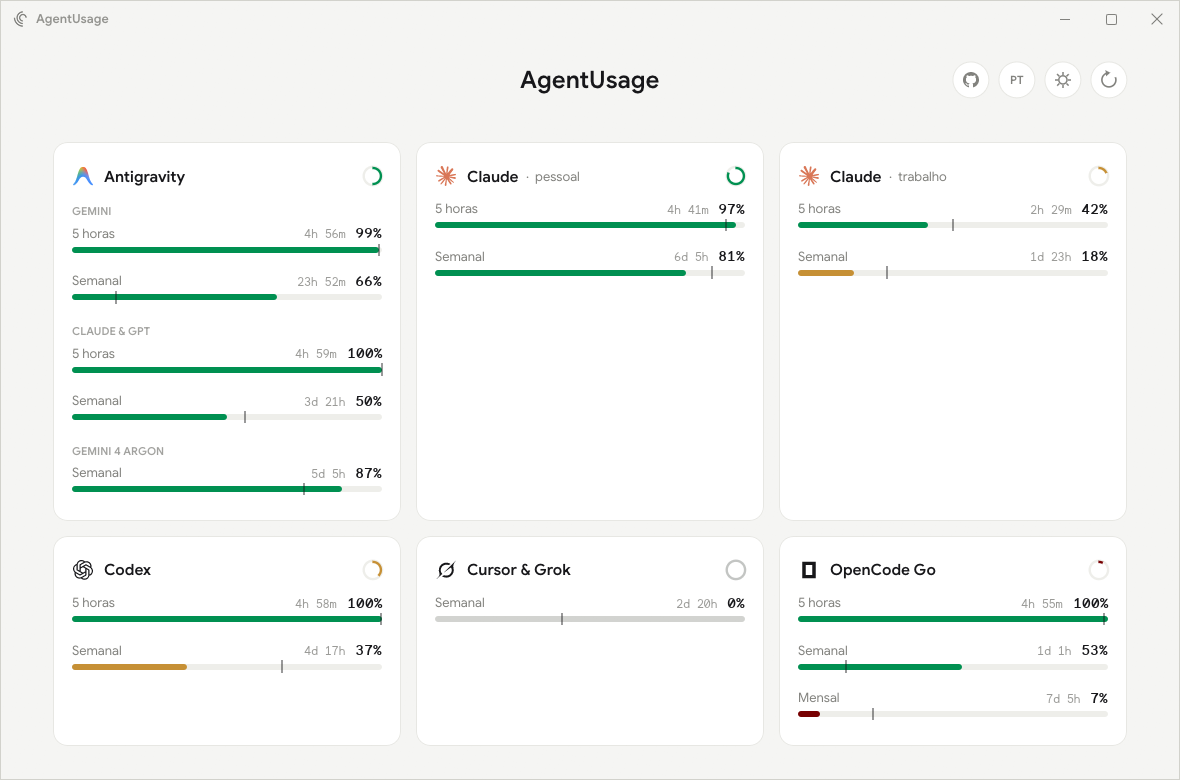
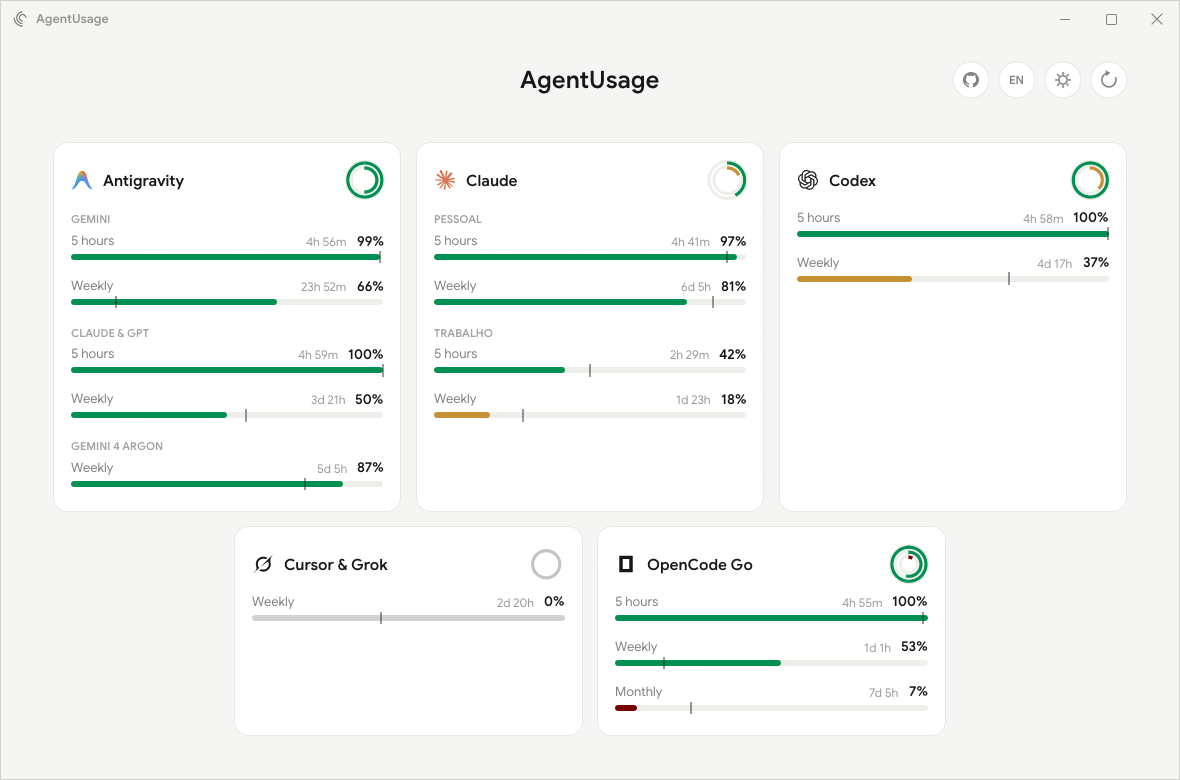
One Claude card for all accounts, concentric hour/week/month rings, Google Sans only

diff --git a/src/ui.rs b/src/ui.rs
@@ -6,7 +6,7 @@ use crate::i18n::Lang;
 use crate::icons;
 use crate::model::{Account, Reading, Status, Window};
 use crate::prefs::ThemeMode;
-use crate::theme::{MONO, MONO_SEMIBOLD, Palette, SEMIBOLD};
+use crate::theme::{Palette, SEMIBOLD};
 use chrono::{DateTime, Local, Utc};
 use eframe::egui::{
     self, Align2, Color32, CornerRadius, FontFamily, FontId, Painter, Pos2, Rect, Response, Sense,
@@ -56,7 +56,7 @@ impl Metrics {
     fn at(k: f32) -> Self {
         Self {
             pad: 20.0 * k.max(0.8),
-            head: 30.0,
+            head: 40.0,
             row: 50.0 * k,
             group: 26.0 * k,
             gap: 16.0 * k.max(0.75),
@@ -68,6 +68,9 @@ const BAR_H: f32 = 6.0;
 /// Densest layout: rows stay readable (label line plus bar) down to this scale.
 const MIN_K: f32 = 0.6;
 const BTN_R: f32 = 18.0;
+/// Concentric status rings: radii (outer hours, middle week, inner month) and stroke width.
+const RING_R: [f32; 3] = [17.0, 12.0, 7.0];
+const RING_W: f32 = 3.2;
 /// Narrowest card that still reads well, used before falling back to scrolling.
 const MIN_CARD_W: f32 = 220.0;
 
@@ -126,7 +129,8 @@ impl Dashboard {
         let lang = f.lang;
 
         let full = ui.max_rect();
-        let mut cards: Vec<&Account> = f.accounts.iter().collect();
+        let merged = crate::model::merge_claude(f.accounts);
+        let mut cards: Vec<&Account> = merged.iter().collect();
         cards.sort_by(|a, b| {
             a.title()
                 .to_lowercase()
@@ -450,41 +454,46 @@ impl Dashboard {
                 );
             }
             Reading::Ok(groups) => {
-                // Status ring: the tightest window.
-                if let Some(b) = acc.binding() {
-                    let st = b.status(f.now);
+                // Concentric rings, outer to inner: hours, week, month (the tightest window
+                // of each). Same place and size on every card; a ring shows only if it applies.
+                let rc = pos2(inner.right() - RING_R[0] - RING_W / 2.0, hy);
+                let mut tip = Vec::new();
+                for (i, w) in acc.by_period().into_iter().enumerate() {
+                    let Some(w) = w else { continue };
+                    let st = w.status(f.now);
                     let v = self.tweens.get(
-                        &format!("ring:{}", acc.key),
-                        b.remaining,
+                        &format!("ring:{}:{i}", acc.key),
+                        w.remaining,
                         0.0,
                         now,
                         0.3,
-                        0.05 + idx as f32 * 0.03,
+                        0.05 + idx as f32 * 0.03 + i as f32 * 0.04,
                     );
-                    let rc = pos2(inner.right() - 9.0, hy);
-                    let ring_track = if st == Status::Empty {
+                    let track = if st == Status::Empty {
                         lerp_color(pal.track, pal.empty, 0.45)
                     } else {
                         pal.track
                     };
-                    p.circle_stroke(rc, 8.0, Stroke::new(2.4, ring_track.gamma_multiply(a)));
+                    p.circle_stroke(rc, RING_R[i], Stroke::new(RING_W, track.gamma_multiply(a)));
                     arc(
                         &p,
                         rc,
-                        8.0,
+                        RING_R[i],
                         v,
-                        Stroke::new(2.4, pal.status(st).gamma_multiply(a)),
+                        Stroke::new(RING_W, pal.status(st).gamma_multiply(a)),
                     );
-                    let ring_rect = Rect::from_center_size(rc, vec2(24.0, 24.0));
+                    tip.push(format!("{} · {}%", lang.data(&w.label), pct(w.remaining)));
+                }
+                if !tip.is_empty() {
+                    let ring_rect = Rect::from_center_size(rc, Vec2::splat(RING_R[0] * 2.0 + 6.0));
                     ui.interact(
                         ring_rect,
                         ui.scope_id().with(("ring", &acc.key)),
                         Sense::hover(),
                     )
-                    .on_hover_text(format!(
-                        "{} · {}%",
-                        lang.data(&b.label),
-                        pct(b.remaining)
+                    .on_hover_text(tip.join(
+                        "
+",
                     ));
                 }
                 let mut y = body_top;
@@ -545,7 +554,7 @@ impl Dashboard {
         // Right side: countdown (muted), then the percentage.
         let pct_g = p.layout_no_wrap(
             format!("{}%", pct(v)),
-            FontId::new(13.5, FontFamily::Name(MONO_SEMIBOLD.into())),
+            FontId::new(13.5, FontFamily::Name(SEMIBOLD.into())),
             pal.text.gamma_multiply(a),
         );
         let pct_w = pct_g.size().x;
@@ -560,7 +569,7 @@ impl Dashboard {
                 pos2(row.right() - pct_w - 10.0, line_y + 0.5),
                 Align2::RIGHT_CENTER,
                 countdown(left, lang),
-                FontId::new(11.5, FontFamily::Name(MONO.into())),
+                FontId::proportional(12.0),
                 pal.muted.gamma_multiply(a * 0.8),
             );
         }

diff --git a/src/model.rs b/src/model.rs
@@ -139,12 +139,92 @@ impl Account {
         };
         groups.iter().flat_map(|g| g.windows.iter())
     }
+}
 
-    /// The window that will stop work first: lowest remaining.
-    pub fn binding(&self) -> Option<&Window> {
-        self.windows()
-            .min_by(|a, b| a.remaining.total_cmp(&b.remaining))
+/// How long a window lasts, for the concentric rings: outer, middle and inner.
+#[derive(Clone, Copy, Debug, PartialEq, Eq)]
+pub enum Period {
+    Hours,
+    Week,
+    Month,
+}
+
+impl Window {
+    pub fn period(&self) -> Period {
+        match self.length.map(|d| d.as_secs()) {
+            Some(s) if s <= 24 * 3600 => Period::Hours,
+            Some(s) if s <= 8 * 24 * 3600 => Period::Week,
+            _ => Period::Month,
+        }
     }
+}
+
+impl Account {
+    /// The tightest window of each period (hours, week, month), if the account has one.
+    pub fn by_period(&self) -> [Option<&Window>; 3] {
+        let mut out: [Option<&Window>; 3] = [None; 3];
+        for w in self.windows() {
+            let i = w.period() as usize;
+            if out[i].is_none_or(|b| w.remaining < b.remaining) {
+                out[i] = Some(w);
+            }
+        }
+        out
+    }
+}
+
+/// All Claude accounts as one card, one group per account (alphabetical). Folders signed in to
+/// the same account show once, with the most recent reading.
+pub fn merge_claude(accounts: &[Account]) -> Vec<Account> {
+    let (claude, mut out): (Vec<&Account>, Vec<&Account>) = accounts
+        .iter()
+        .partition(|a| a.provider == Provider::Claude);
+    let mut out: Vec<Account> = out.drain(..).cloned().collect();
+    if claude.is_empty() {
+        return out;
+    }
+    let mut ok: Vec<(String, &Account, &Vec<Group>)> = Vec::new();
+    for a in &claude {
+        if let Reading::Ok(groups) = &a.reading {
+            let name = a.account.clone().unwrap_or_default();
+            match ok.iter_mut().find(|(n, _, _)| *n == name) {
+                Some(slot) if slot.1.fetched_at < a.fetched_at => *slot = (name, a, groups),
+                Some(_) => {}
+                None => ok.push((name, a, groups)),
+            }
+        }
+    }
+    ok.sort_by_key(|x| x.0.to_lowercase());
+    let reading = if !ok.is_empty() {
+        let single = ok.len() == 1;
+        Reading::Ok(
+            ok.iter()
+                .map(|(name, _, groups)| Group {
+                    name: if single { String::new() } else { name.clone() },
+                    windows: groups.iter().flat_map(|g| g.windows.clone()).collect(),
+                })
+                .collect(),
+        )
+    } else if claude.iter().any(|a| matches!(a.reading, Reading::Loading)) {
+        Reading::Loading
+    } else {
+        claude
+            .iter()
+            .find_map(|a| match &a.reading {
+                Reading::Unavailable(r) => Some(Reading::Unavailable(r.clone())),
+                _ => None,
+            })
+            .unwrap_or(Reading::Loading)
+    };
+    out.push(Account {
+        key: "claude".into(),
+        provider: Provider::Claude,
+        title: None,
+        account: None,
+        reading,
+        fetched_at: ok.iter().filter_map(|(_, a, _)| a.fetched_at).max(),
+    });
+    out
 }
 
 pub fn email_local_part(email: &str) -> String {
@@ -179,6 +259,41 @@ mod tests {
 #[cfg(test)]
 mod limit_tests {
     use super::*;
+
+    fn claude(key: &str, name: &str, rem: f32, at: i64) -> Account {
+        Account {
+            key: key.into(),
+            provider: Provider::Claude,
+            title: None,
+            account: Some(name.into()),
+            reading: Reading::Ok(vec![Group {
+                name: String::new(),
+                windows: vec![Window::new("5 horas", rem).length_mins(300)],
+            }]),
+            fetched_at: DateTime::from_timestamp(at, 0),
+        }
+    }
+
+    #[test]
+    fn claude_accounts_merge_into_one_card() {
+        let accs = vec![
+            claude("c0", "b", 0.5, 10),
+            claude("c1", "a", 0.9, 10),
+            claude("c2", "b", 0.4, 20),
+        ];
+        let out = merge_claude(&accs);
+        assert_eq!(out.len(), 1);
+        let Reading::Ok(groups) = &out[0].reading else {
+            panic!()
+        };
+        let names: Vec<_> = groups.iter().map(|g| g.name.as_str()).collect();
+        assert_eq!(names, ["a", "b"]);
+        // The duplicate keeps its most recent reading.
+        assert!((groups[1].windows[0].remaining - 0.4).abs() < 1e-4);
+        let rings = out[0].by_period();
+        assert!((rings[0].unwrap().remaining - 0.4).abs() < 1e-4);
+        assert!(rings[1].is_none() && rings[2].is_none());
+    }
 
     #[test]
     fn state_limits() {

diff --git a/README.md b/README.md
@@ -15,7 +15,8 @@ agente de IA: Antigravity, Claude (várias contas), Codex, Cursor & Grok e OpenC
   idioma (PT-BR, EN-US). A escolha fica salva. O botão do GitHub abre este repositório.
 - **O risquinho na barra marca o ritmo:** (passe o mouse para ver o estado) é onde a barra estaria com um consumo uniforme até a
   renovação. Barra à esquerda do risco quer dizer que você está gastando mais rápido que o tempo.
-- O anel no canto de cada cartão mostra a janela mais apertada daquela conta.
+- Os anéis no canto de cada cartão mostram, de fora para dentro, a janela de horas, a semanal e a mensal (a mais apertada de cada uma).
+- Todas as contas do Claude ficam num cartão só, uma seção por conta.
 - Os detalhes ficam escondidos e aparecem ao passar o mouse: data da renovação e previsão
   ("acaba em 2h 10m").
 - Atualiza sozinho a cada 60 s; o Claude, a cada 5 min, e espera mais quando o serviço pede.
